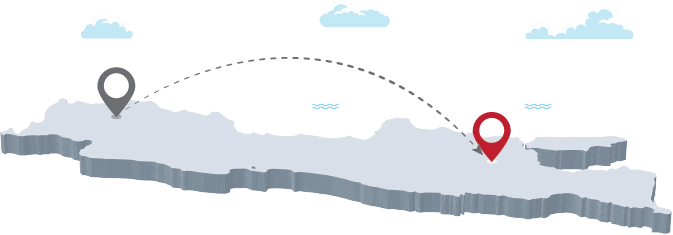
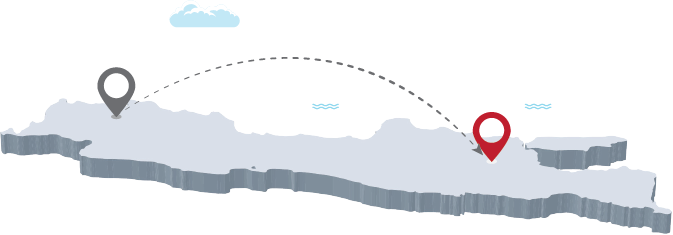
update

diff --git a/sass/style.css b/sass/style.css
@@ -1,1 +1,1 @@
-@import"https://fonts.googleapis.com/css2?family=Poppins:wght@400;600;700&family=Unbounded:wght@600&family=Montserrat:wght@500;700&display=swap";.bg-yellow{background:#fbcc7a}.bg-blue{background:#005296}.bg-green{background:#6ebf52}.bg-birumuda{background:#0695b4}.bgbg{background:#98d4ff}.cerita{position:relative;z-index:8;padding:32px 0;font-family:"Poppins"}.cerita__bg{position:absolute;top:0px;left:0;opacity:.6;right:0;z-index:2;width:100%;height:100%;filter:grayscale(1)}.cerita__bg .testi{width:100%;height:100%}.cerita__bg img{width:100%;height:100%;object-fit:contain}.cerita .imagex{margin-bottom:16px;height:360px}@media screen and (max-width: 766px){.cerita .imagex{height:320px;margin-bottom:4px}}.cerita .imagex img{width:100%;height:100%;object-fit:cover}.cerita .titlex-lala{text-align:center;font-weight:bold;font-family:"Poppins";color:#32debe;font-size:2.5rem;width:fit-content;margin:0 auto 16px;padding:4px 8px}@media screen and (max-width: 766px){.cerita .titlex-lala{font-size:2rem}}.cerita h2{font-weight:600;font-size:2rem;font-family:"Poppins"}.cerita p{font-family:"Poppins";color:#222;letter-spacing:.0225rem}@media screen and (max-width: 766px){.cerita p{font-size:.85rem;line-height:1.3rem;letter-spacing:initial}}.cerita .cardx{display:flex;justify-content:space-around;align-items:center;padding:60px;position:relative}.cerita .cardx .petax{position:absolute;left:0;right:0;top:0;bottom:0;width:100%;height:100%;z-index:1}@media screen and (max-width: 766px){.cerita .cardx .petax{width:100%}}.cerita .cardx .petax::before{content:"";position:absolute;bottom:0;left:0;top:0;right:0;width:100%;height:100%}.cerita .cardx .petax img{width:100%;height:100%;object-fit:contain}@media screen and (max-width: 766px){.cerita .cardx{display:block;padding:16px !important}}.cerita .cardx--reverse{flex-direction:row-reverse}.cerita .cardx--reverse .cardx__img-holder::before{left:8px;bottom:-8px;top:8px;right:-8px}@media screen and (max-width: 766px){.cerita .cardx--reverse .cardx__img-holder::before{left:8px;bottom:-8px;top:8px;right:-8px}}@keyframes warna{0%,100%{background:#e9d2a8}50%{background:#e9d2a8}}.cerita .cardx__img-holder{width:50%;height:75vh;position:relative;z-index:18;margin:8px;padding:16px;border-radius:16px;background:transparent}.cerita .cardx__img-holder .test{position:absolute;left:14%;top:37%}@media screen and (max-width: 766px){.cerita .cardx__img-holder .test{font-size:12px}}@keyframes MoveUpDown{0%,100%{left:14%;top:48%}50%{left:30%;top:36%}70%{left:50%;top:40%}90%{left:66%;top:50%}}@keyframes MoveUpDownMob{0%,100%{left:14%;top:45%}50%{left:30%;top:33%}75%{left:50%;top:37%}90%{left:66%;top:45%}}.cerita .cardx__img-holder .test-pesawat{position:absolute;left:14%;top:48%;width:80px;animation:MoveUpDown 6.5s linear infinite;z-index:35}@media screen and (max-width: 766px){.cerita .cardx__img-holder .test-pesawat{width:40px;top:45%;animation:MoveUpDownMob 6.5s linear infinite}}.cerita .cardx__img-holder .test-pesawat img{width:100%;height:100%;object-fit:contain}.cerita .cardx__img-holder .test2{position:absolute;right:20%;top:44%}@media screen and (max-width: 766px){.cerita .cardx__img-holder .test2{font-size:12px}}.cerita .cardx__img-holder .test3{position:absolute;right:0%;top:40%}@media screen and (max-width: 766px){.cerita .cardx__img-holder .test3{font-size:12px}}.cerita .cardx__img-holder .test4{position:absolute;right:10%;top:30%}@media screen and (max-width: 766px){.cerita .cardx__img-holder .test4{font-size:12px}}.cerita .cardx__img-holder::before{content:"";position:absolute;left:-8px;bottom:-8px;top:8px;right:8px;border-radius:4px;z-index:2}@media screen and (max-width: 766px){.cerita .cardx__img-holder::before{left:-8px;bottom:-8px;top:8px;right:8px}}@media screen and (max-width: 766px){.cerita .cardx__img-holder{width:100%;height:40vh;margin:8px}}.cerita .cardx__img-holder img{width:100%;height:100%;position:relative;z-index:3;border-radius:4px;object-fit:contain}.cerita .cardx__text{width:400px;position:relative;z-index:18}.cerita .cardx__text .tes-judul{color:#222;position:relative;margin-bottom:24px}.cerita .cardx__text .tes-judul::before{content:"";position:absolute;bottom:-12px;left:0;width:80px;height:2px;background:#222}@media screen and (max-width: 766px){.cerita .cardx__text .tes-judul{display:block}}.cerita .cardx__text .tes-judul h2{margin-bottom:0}@media screen and (max-width: 766px){.cerita .cardx__text{width:100%}}.lewat{position:absolute;bottom:32px;right:32px}.lewat.leftx{right:initial;left:32px}.lewat.leftx .image img{width:100%;height:100%;object-fit:contain}@media screen and (max-width: 766px){.lewat{bottom:-72px}}.lewat .image{width:200px;height:auto}.lewat .image img{width:100%;height:100%;object-fit:contain}main,body{font-family:"Poppins",sans-serif;overflow-x:hidden}h2,h3{font-weight:700}section{padding:32px 0;min-height:100vh}.totop{position:relative;z-index:88}.banner{position:relative;background:linear-gradient(to bottom, transparent, #c9a562)}.banner .logo{position:absolute;left:5%;top:15%;z-index:3;width:60vw;height:auto}@media screen and (max-width: 766px){.banner .logo{left:0;top:initial;bottom:10vh;width:100vw}}.banner .logo img{width:100%;height:100%;object-fit:contain}.banner .judul{position:absolute;font-family:"Unbounded";z-index:6;color:#fff;line-height:80px;top:25vh;background:#2b0085;padding:40px;left:8vw;border:4px solid #fff}@media screen and (min-width: 1400px){.banner .judul{left:20vw}}@media screen and (max-width: 766px){.banner .judul{left:0vw;line-height:initial;top:initial;padding:8px}}.banner .judul .atas{font-size:5.1rem}@media screen and (max-width: 766px){.banner .judul .atas{font-size:3.1rem}}.banner .judul .tengah{font-size:3.3rem}@media screen and (max-width: 766px){.banner .judul .tengah{font-size:2rem}}.banner .judul .bawah{color:orange;font-size:5.3rem;border-bottom:4px solid orange;padding-bottom:8px}@media screen and (max-width: 766px){.banner .judul .bawah{font-size:2.3rem}}.banner .image-kereta{position:absolute;top:36vh;left:51vw;z-index:3;width:auto;height:auto}@media screen and (min-width: 1400px){.banner .image-kereta{top:31vh}}.banner .image-kereta img{width:100%;height:100%;object-fit:contain}@media screen and (max-width: 766px){.banner .image-kereta{top:initial;left:0;bottom:5vh;height:auto;width:80%}}.banner .image-peta{position:absolute;top:8vh;left:48vw;z-index:2}@media screen and (max-width: 766px){.banner .image-peta{left:0;top:initial;width:100%;height:auto;bottom:35vh}}.banner .image-peta img{width:100%;height:100%;object-fit:contain}.banner .image-kota{position:absolute;bottom:0;left:0;right:0;opacity:.1}.banner .image-kota img{width:100%;height:100%;object-fit:cover}.intro{position:relative;background:linear-gradient(to bottom, #e9d2a8, white)}@media screen and (max-width: 766px){.intro p{font-size:1rem}}.intro .wrap{position:relative;min-height:100vh}.intro .wrap .sub-judul h4{font-size:2.3rem;font-weight:700}.intro .wrap .object-wisata{width:200px;height:200px;box-shadow:rgba(50,50,93,.25) 0px 6px 12px -2px,rgba(0,0,0,.3) 0px 3px 7px -3px;border-radius:50%}.intro .wrap .object-wisata img{width:100%;height:100%;border-radius:50%;object-fit:cover}.intro .judul-hero{background:#00b15c;width:fit-content;margin:0 auto 24px;border-radius:16px;padding:8px}.intro .judul-hero h3{margin:0;font-family:"Montserrat";border-radius:12px;color:#fff;padding:0;border:1px solid #fff;background:#00c174;padding:16px;font-size:3rem}@media screen and (max-width: 766px){.intro .judul-hero h3{font-size:1.7rem;padding:8px}}.intro .pohons{position:absolute;bottom:0;left:0;right:0;height:70vh;opacity:.1}@media screen and (max-width: 766px){.intro .pohons{height:auto}}.intro .pohons img{width:100%;height:100%;object-fit:contain}.intro .orang{height:auto;position:absolute;right:0;bottom:-32px;width:220px;margin:0 auto}@media screen and (min-width: 1400px){.intro .orang{width:220px}}@media screen and (max-width: 766px){.intro .orang{width:200px;bottom:-32px}}.intro .orang img{width:100%;height:100%;object-fit:contain}.intro .bg{position:absolute;left:0;right:0;top:0;bottom:0;width:100%;height:auto}.intro .bg img{width:100%;height:100%;object-fit:cover}.datanya{background:linear-gradient(to bottom, white, #80ceda);position:relative}@media screen and (max-width: 766px){.datanya{padding:32px 0 300px}}.datanya .tag{background:#fff;color:#e37800;border:1px solid;border-radius:4px;padding:4px;font-size:12px;margin-left:8px;font-family:"Montserrat"}.datanya .titles__cek{font-size:2rem;color:#526771;font-family:"Montserrat";margin:0;padding:0}@media screen and (max-width: 766px){.datanya .titles__cek{font-size:1.7rem}}.datanya .titles__bawah{font-family:"Montserrat";font-size:2.5rem}.datanya .titles h3{font-size:4rem;color:#f69f1a;font-weight:700;text-shadow:2px 2px #333;font-family:"Montserrat"}@media screen and (max-width: 766px){.datanya .titles h3{font-size:2rem;text-shadow:1px 1px #333}}.datanya .nama-pulau{font-size:1.5rem;width:fit-content;font-weight:bold;border-radius:4px}@media screen and (max-width: 766px){.datanya .nama-pulau{font-size:1.3rem}}.datanya .image{width:100%;height:320px}@media screen and (max-width: 766px){.datanya .image{height:180px;margin-bottom:16px}}.datanya .image img{width:100%;height:100%;object-fit:cover}.datanya .wisatawan{position:absolute;right:120px;bottom:8px;width:460px;height:700px;z-index:2}@media screen and (max-width: 766px){.datanya .wisatawan{right:0;bottom:0;width:600px}}.datanya .wisatawan .g1{position:absolute;width:100%;height:100%;left:30%;right:0;bottom:0;top:0}@media screen and (max-width: 766px){.datanya .wisatawan .g1{top:initial;left:initial;opacity:1;height:initial;width:50%}}.datanya .wisatawan .g1 img{width:100%;height:100%;object-fit:contain}.keraton{background:linear-gradient(to top, white, #e9d2a8, white);position:relative}.keraton__img{position:absolute;left:0;right:0;top:0;bottom:0}.keraton__img img{width:100%;height:100%;object-fit:contain}.keraton .obj{position:relative;width:100%;height:420px;padding:8px;z-index:7}.keraton .obj .imgs{width:320px;height:320px;box-shadow:rgba(50,50,93,.25) 0px 6px 12px -2px,rgba(0,0,0,.3) 0px 3px 7px -3px}.keraton .obj .imgs img{width:100%;height:100%;object-fit:cover}.keraton .img{width:100%;height:auto;position:absolute;left:0;right:0;top:0;bottom:0}.keraton .img img{width:100%;height:100%;object-fit:cover}.keraton .titles{position:relative;z-index:9}.keraton .titles__cek{font-size:2rem}.keraton .titles h3{font-size:3.5rem;color:#a27432}@media screen and (max-width: 766px){.keraton .titles h3{font-size:2.5rem}}.totop{position:relative;z-index:88}.bawang{position:relative}.bawang::before{content:"";position:absolute;left:0;right:0;bottom:0;top:0;z-index:2;background:linear-gradient(to bottom, #e9d2a8, transparent, #e9d2a8)}.bawang::after{content:"";position:absolute;left:0;right:0;bottom:0;top:0;z-index:1;background:linear-gradient(to right, #e9d2a8, transparent)}.bawang .img{width:100%;height:100%;position:absolute;left:0;right:0;top:0;bottom:0}.bawang .img img{width:100%;height:100%;object-fit:cover}.pesiar{position:relative;background:linear-gradient(to top, transparent, #80ceda)}.pesiar .titles{padding:8px;text-align:center}.pesiar .titles h3{font-family:"Montserrat";margin:0;padding:0;width:fit-content;margin:0 auto}.pesiar .titles .atas{font-size:2.2rem;color:#4a4a4a;font-weight:700}@media screen and (max-width: 766px){.pesiar .titles .atas{font-size:2rem;font-weight:700}}.pesiar .titles .bawah{font-size:2.6rem;background:#f69f1a;color:#fff;margin-top:8px;padding:8px;text-shadow:2px 2px #333}@media screen and (max-width: 766px){.pesiar .titles .bawah{font-size:2.1rem}}.pesiar .img{width:100%;height:420px;box-shadow:#26394d 0px 20px 30px -10px}@media screen and (max-width: 766px){.pesiar .img{height:280px}}.pesiar .img img{width:100%;height:100%;object-fit:cover}.budaya{position:relative;background:#deb867;padding:84px 0 32px}@media screen and (max-width: 766px){.budaya{padding:64px 0 32px}}.budaya .content-budaya{margin-bottom:16px;position:relative}.budaya .content-budaya .judul{margin:0 auto 24px;width:fit-content;position:relative}.budaya .content-budaya .judul::before{position:absolute;bottom:-8px;content:"";width:50%;left:50%;z-index:4;height:2px;background:#000;transform:translate(-50%, 0%)}.budaya .content-budaya .judul h3{font-size:1.5rem}.budaya .content-budaya .help-blue{position:absolute;top:30px;left:0;right:0;height:300px;background:#946d1b}@media screen and (max-width: 766px){.budaya .content-budaya .help-blue{background:rgba(148,109,27,.6)}}.budaya .imgsa{width:fit-content;margin:0 auto;position:relative;z-index:6;height:420px;box-shadow:rgba(50,50,93,.25) 0px 13px 27px -5px,rgba(0,0,0,.3) 0px 8px 16px -8px}.budaya .imgsa img{width:100%;height:100%;object-fit:contain}@media screen and (max-width: 766px){.budaya .imgsa img{object-fit:cover}}.budaya .batik-land{position:absolute;top:0;left:0;right:0;z-index:3;height:50px}@media screen and (max-width: 766px){.budaya .batik-land{height:20px}}.budaya .batik-land img{width:100%;height:100%;object-fit:cover}.budaya .batik-land-bottom{position:absolute;bottom:0;left:0;right:0;z-index:3;height:50px}@media screen and (max-width: 766px){.budaya .batik-land-bottom{height:20px}}.budaya .batik-land-bottom img{width:100%;height:100%;object-fit:cover}.budaya .belok{position:absolute;left:0;top:0;right:0}@media screen and (max-width: 766px){.budaya .belok{height:240px}}.budaya .belok img{width:100%;height:100%;object-fit:cover}.budaya .title{color:#fff;font-size:3.5rem;text-align:center;font-family:"Montserrat"}@media screen and (max-width: 766px){.budaya .title{font-size:2.5rem;margin-bottom:24px}}.geografis{position:relative}.geografis .tourist{position:absolute;left:0;bottom:0;width:520px;height:auto}@media screen and (max-width: 766px){.geografis .tourist{width:100%}}.geografis .tourist img{width:100%;height:100%;object-fit:contain}.geografis .rel{position:absolute;bottom:16px;right:0;z-index:6;height:2px;width:700px;background:#534741}@media screen and (max-width: 766px){.geografis .rel{width:85%}}.geografis .kereta{position:absolute;right:-10%;bottom:16px;z-index:2;width:720px}@media screen and (max-width: 766px){.geografis .kereta{width:85%}}.geografis .kereta img{width:100%;height:100%;object-fit:contain}.geografis .judul-hero{background:#00b15c;width:fit-content;margin:0 auto 24px;border-radius:16px;padding:8px}@media screen and (max-width: 766px){.geografis .judul-hero{margin:16px auto}}.geografis .judul-hero .name{margin:0;font-family:"Montserrat";border-radius:12px;color:#fff;padding:0;border:1px solid #fff;background:#00c174;padding:16px;font-size:3rem}@media screen and (max-width: 766px){.geografis .judul-hero .name{font-size:1.7rem;padding:8px}}.geografis::before{position:absolute;left:0;right:0;content:"";z-index:2;top:0;bottom:0;background:linear-gradient(to top, #e9d2a8, transparent, #e9d2a8)}.geografis .img{width:100%;height:320px}.geografis .img img{width:100%;height:100%;object-fit:cover}@media screen and (max-width: 766px){.geografis .img img{object-fit:contain}}.all-photo{display:block}.all-photo .img{width:30%;margin:8px;height:360px;display:inline-block}@media screen and (max-width: 766px){.all-photo .img{width:100%;margin:0 auto 8px}}.all-photo .img img{width:100%;height:100%;object-fit:cover}.galeri{background:#84b28e;position:relative}.galeri .camera{position:absolute;top:0;left:20%;width:150px;height:auto}@media screen and (max-width: 766px){.galeri .camera{position:absolute;top:0;left:initial;right:0;width:76px;height:auto}}.galeri .camera img{width:100%;height:100%;object-fit:contain}.galeri .title{font-family:"Montserrat";font-size:3.5rem;color:#fff;text-shadow:2px 2px #000}.galeri .slick-slide{margin:0 16px}.galeri .slick-list{margin:0 -16px}.galeri .slick-next,.galeri .slick-prev{z-index:9}@media screen and (max-width: 766px){.galeri .slick-next{right:0}}.galeri .slick-next::before{font-family:"FontAwesome" !important;content:"" !important;font-size:1.5rem}@media screen and (max-width: 766px){.galeri .slick-prev{left:0}}.galeri .slick-prev::before{font-family:"FontAwesome" !important;content:"" !important;font-size:1.5rem}/*# sourceMappingURL=style.css.map */
+@import"https://fonts.googleapis.com/css2?family=Poppins:wght@400;600;700&family=Unbounded:wght@600&family=Montserrat:wght@500;700&display=swap";.bg-yellow{background:#fbcc7a}.bg-blue{background:#005296}.bg-green{background:#6ebf52}.bg-birumuda{background:#0695b4}.bgbg{background:#98d4ff}.cerita{position:relative;z-index:8;padding:32px 0;font-family:"Poppins"}.cerita__bg{position:absolute;top:0px;left:0;opacity:.6;right:0;z-index:2;width:100%;height:100%;filter:grayscale(1)}.cerita__bg .testi{width:100%;height:100%}.cerita__bg img{width:100%;height:100%;object-fit:contain}.cerita .imagex{margin-bottom:16px;height:360px}@media screen and (max-width: 766px){.cerita .imagex{height:320px;margin-bottom:4px}}.cerita .imagex img{width:100%;height:100%;object-fit:cover}.cerita .titlex-lala{text-align:center;font-weight:bold;font-family:"Poppins";color:#32debe;font-size:2.5rem;width:fit-content;margin:0 auto 16px;padding:4px 8px}@media screen and (max-width: 766px){.cerita .titlex-lala{font-size:2rem}}.cerita h2{font-weight:600;font-size:2rem;font-family:"Poppins"}.cerita p{font-family:"Poppins";color:#222;letter-spacing:.0225rem}@media screen and (max-width: 766px){.cerita p{font-size:.85rem;line-height:1.3rem;letter-spacing:initial}}.cerita .cardx{display:flex;justify-content:space-around;align-items:center;padding:60px;position:relative}.cerita .cardx .petax{position:absolute;left:0;right:0;top:0;bottom:0;width:100%;height:100%;z-index:1}@media screen and (max-width: 766px){.cerita .cardx .petax{width:100%}}.cerita .cardx .petax::before{content:"";position:absolute;bottom:0;left:0;top:0;right:0;width:100%;height:100%}.cerita .cardx .petax img{width:100%;height:100%;object-fit:contain}@media screen and (max-width: 766px){.cerita .cardx{display:block;padding:16px !important}}.cerita .cardx--reverse{flex-direction:row-reverse}.cerita .cardx--reverse .cardx__img-holder::before{left:8px;bottom:-8px;top:8px;right:-8px}@media screen and (max-width: 766px){.cerita .cardx--reverse .cardx__img-holder::before{left:8px;bottom:-8px;top:8px;right:-8px}}@keyframes warna{0%,100%{background:#e9d2a8}50%{background:#e9d2a8}}.cerita .cardx__img-holder{width:50%;height:75vh;position:relative;z-index:18;margin:8px;padding:16px;border-radius:16px;background:transparent}.cerita .cardx__img-holder .test{position:absolute;left:14%;top:37%}@media screen and (max-width: 766px){.cerita .cardx__img-holder .test{font-size:12px}}@keyframes MoveUpDown{0%,100%{left:14%;top:48%}50%{left:30%;top:36%}70%{left:50%;top:40%}90%{left:66%;top:50%}}@keyframes MoveUpDownMob{0%,100%{left:14%;top:45%}50%{left:30%;top:33%}75%{left:50%;top:37%}90%{left:66%;top:45%}}@keyframes MoveUpAwan{0%,100%{left:40%}50%{left:45%}}@keyframes MoveUpAwan2{0%,100%{right:20%}50%{right:25%}}.cerita .cardx__img-holder .test-awan{position:absolute;top:20%;left:40%;width:100px;animation:MoveUpAwan 8.5s linear infinite}.cerita .cardx__img-holder .test-awan img{width:100%;height:100%;object-fit:contain}.cerita .cardx__img-holder .test-awan2{position:absolute;top:32%;right:20%;width:60px;transform:translateX(100deg);animation:MoveUpAwan2 6.5s linear infinite}.cerita .cardx__img-holder .test-awan2 img{width:100%;height:100%;object-fit:contain}.cerita .cardx__img-holder .test-pesawat{position:absolute;left:14%;top:48%;width:80px;animation:MoveUpDown 6.5s linear infinite;z-index:35}@media screen and (max-width: 766px){.cerita .cardx__img-holder .test-pesawat{width:40px;top:45%;animation:MoveUpDownMob 6.5s linear infinite}}.cerita .cardx__img-holder .test-pesawat img{width:100%;height:100%;object-fit:contain}.cerita .cardx__img-holder .test2{position:absolute;right:20%;top:44%}@media screen and (max-width: 766px){.cerita .cardx__img-holder .test2{font-size:12px}}.cerita .cardx__img-holder .test3{position:absolute;right:0%;top:49%}@media screen and (max-width: 766px){.cerita .cardx__img-holder .test3{font-size:12px}}.cerita .cardx__img-holder .test4{position:absolute;right:10%;top:30%}@media screen and (max-width: 766px){.cerita .cardx__img-holder .test4{font-size:12px}}.cerita .cardx__img-holder::before{content:"";position:absolute;left:-8px;bottom:-8px;top:8px;right:8px;border-radius:4px;z-index:2}@media screen and (max-width: 766px){.cerita .cardx__img-holder::before{left:-8px;bottom:-8px;top:8px;right:8px}}@media screen and (max-width: 766px){.cerita .cardx__img-holder{width:100%;height:40vh;margin:8px}}.cerita .cardx__img-holder img{width:100%;height:100%;position:relative;z-index:3;border-radius:4px;object-fit:contain}.cerita .cardx__text{width:400px;position:relative;z-index:18}.cerita .cardx__text .tes-judul{color:#222;position:relative;margin-bottom:24px}.cerita .cardx__text .tes-judul::before{content:"";position:absolute;bottom:-12px;left:0;width:80px;height:2px;background:#222}@media screen and (max-width: 766px){.cerita .cardx__text .tes-judul{display:block}}.cerita .cardx__text .tes-judul h2{margin-bottom:0}@media screen and (max-width: 766px){.cerita .cardx__text{width:100%}}.lewat{position:absolute;bottom:32px;right:32px}.lewat.leftx{right:initial;left:32px}.lewat.leftx .image img{width:100%;height:100%;object-fit:contain}@media screen and (max-width: 766px){.lewat{bottom:-72px}}.lewat .image{width:200px;height:auto}.lewat .image img{width:100%;height:100%;object-fit:contain}main,body{font-family:"Poppins",sans-serif;overflow-x:hidden}h2,h3{font-weight:700}section{padding:32px 0;min-height:100vh}.totop{position:relative;z-index:88}.banner{position:relative;background:linear-gradient(to bottom, transparent, #c9a562)}.banner .logo{position:absolute;left:5%;top:15%;z-index:3;width:60vw;height:auto}@media screen and (max-width: 766px){.banner .logo{left:0;top:initial;bottom:10vh;width:100vw}}.banner .logo img{width:100%;height:100%;object-fit:contain}.banner .judul{position:absolute;font-family:"Unbounded";z-index:6;color:#fff;line-height:80px;top:25vh;background:#2b0085;padding:40px;left:8vw;border:4px solid #fff}@media screen and (min-width: 1400px){.banner .judul{left:20vw}}@media screen and (max-width: 766px){.banner .judul{left:0vw;line-height:initial;top:initial;padding:8px}}.banner .judul .atas{font-size:5.1rem}@media screen and (max-width: 766px){.banner .judul .atas{font-size:3.1rem}}.banner .judul .tengah{font-size:3.3rem}@media screen and (max-width: 766px){.banner .judul .tengah{font-size:2rem}}.banner .judul .bawah{color:orange;font-size:5.3rem;border-bottom:4px solid orange;padding-bottom:8px}@media screen and (max-width: 766px){.banner .judul .bawah{font-size:2.3rem}}.banner .image-kereta{position:absolute;top:36vh;left:51vw;z-index:3;width:auto;height:auto}@media screen and (min-width: 1400px){.banner .image-kereta{top:31vh}}.banner .image-kereta img{width:100%;height:100%;object-fit:contain}@media screen and (max-width: 766px){.banner .image-kereta{top:initial;left:0;bottom:5vh;height:auto;width:80%}}.banner .image-peta{position:absolute;top:8vh;left:48vw;z-index:2}@media screen and (max-width: 766px){.banner .image-peta{left:0;top:initial;width:100%;height:auto;bottom:35vh}}.banner .image-peta img{width:100%;height:100%;object-fit:contain}.banner .image-kota{position:absolute;bottom:0;left:0;right:0;opacity:.1}.banner .image-kota img{width:100%;height:100%;object-fit:cover}.intro{position:relative;background:linear-gradient(to bottom, #e9d2a8, white)}@media screen and (max-width: 766px){.intro p{font-size:1rem}}.intro .wrap{position:relative;min-height:100vh}.intro .wrap .sub-judul h4{font-size:2.3rem;font-weight:700}.intro .wrap .object-wisata{width:200px;height:200px;box-shadow:rgba(50,50,93,.25) 0px 6px 12px -2px,rgba(0,0,0,.3) 0px 3px 7px -3px;border-radius:50%}.intro .wrap .object-wisata img{width:100%;height:100%;border-radius:50%;object-fit:cover}.intro .judul-hero{background:#00b15c;width:fit-content;margin:0 auto 24px;border-radius:16px;padding:8px}.intro .judul-hero h3{margin:0;font-family:"Montserrat";border-radius:12px;color:#fff;padding:0;border:1px solid #fff;background:#00c174;padding:16px;font-size:3rem}@media screen and (max-width: 766px){.intro .judul-hero h3{font-size:1.7rem;padding:8px}}.intro .pohons{position:absolute;bottom:0;left:0;right:0;height:70vh;opacity:.1}@media screen and (max-width: 766px){.intro .pohons{height:auto}}.intro .pohons img{width:100%;height:100%;object-fit:contain}.intro .orang{height:auto;position:absolute;right:0;bottom:-32px;width:220px;margin:0 auto}@media screen and (min-width: 1400px){.intro .orang{width:220px}}@media screen and (max-width: 766px){.intro .orang{width:200px;bottom:-32px}}.intro .orang img{width:100%;height:100%;object-fit:contain}.intro .bg{position:absolute;left:0;right:0;top:0;bottom:0;width:100%;height:auto}.intro .bg img{width:100%;height:100%;object-fit:cover}.datanya{background:linear-gradient(to bottom, white, #80ceda);position:relative}@media screen and (max-width: 766px){.datanya{padding:32px 0 300px}}.datanya .tag{background:#fff;color:#e37800;border:1px solid;border-radius:4px;padding:4px;font-size:12px;margin-left:8px;font-family:"Montserrat"}.datanya .titles__cek{font-size:2rem;color:#526771;font-family:"Montserrat";margin:0;padding:0}@media screen and (max-width: 766px){.datanya .titles__cek{font-size:1.7rem}}.datanya .titles__bawah{font-family:"Montserrat";font-size:2.5rem}.datanya .titles h3{font-size:4rem;color:#f69f1a;font-weight:700;text-shadow:2px 2px #333;font-family:"Montserrat"}@media screen and (max-width: 766px){.datanya .titles h3{font-size:2rem;text-shadow:1px 1px #333}}.datanya .nama-pulau{font-size:1.5rem;width:fit-content;font-weight:bold;border-radius:4px}@media screen and (max-width: 766px){.datanya .nama-pulau{font-size:1.3rem}}.datanya .image{width:100%;height:320px}@media screen and (max-width: 766px){.datanya .image{height:180px;margin-bottom:16px}}.datanya .image img{width:100%;height:100%;object-fit:cover}.datanya .wisatawan{position:absolute;right:120px;bottom:8px;width:460px;height:700px;z-index:2}@media screen and (max-width: 766px){.datanya .wisatawan{right:0;bottom:0;width:600px}}.datanya .wisatawan .g1{position:absolute;width:100%;height:100%;left:30%;right:0;bottom:0;top:0}@media screen and (max-width: 766px){.datanya .wisatawan .g1{top:initial;left:initial;opacity:1;height:initial;width:50%}}.datanya .wisatawan .g1 img{width:100%;height:100%;object-fit:contain}.keraton{background:linear-gradient(to top, white, #e9d2a8, white);position:relative}.keraton__img{position:absolute;left:0;right:0;top:0;bottom:0}.keraton__img img{width:100%;height:100%;object-fit:contain}.keraton .obj{position:relative;width:100%;height:420px;padding:8px;z-index:7}.keraton .obj .imgs{width:320px;height:320px;box-shadow:rgba(50,50,93,.25) 0px 6px 12px -2px,rgba(0,0,0,.3) 0px 3px 7px -3px}.keraton .obj .imgs img{width:100%;height:100%;object-fit:cover}.keraton .img{width:100%;height:auto;position:absolute;left:0;right:0;top:0;bottom:0}.keraton .img img{width:100%;height:100%;object-fit:cover}.keraton .titles{position:relative;z-index:9}.keraton .titles__cek{font-size:2rem}.keraton .titles h3{font-size:3.5rem;color:#a27432}@media screen and (max-width: 766px){.keraton .titles h3{font-size:2.5rem}}.totop{position:relative;z-index:88}.bawang{position:relative}.bawang::before{content:"";position:absolute;left:0;right:0;bottom:0;top:0;z-index:2;background:linear-gradient(to bottom, #e9d2a8, transparent, #e9d2a8)}.bawang::after{content:"";position:absolute;left:0;right:0;bottom:0;top:0;z-index:1;background:linear-gradient(to right, #e9d2a8, transparent)}.bawang .img{width:100%;height:100%;position:absolute;left:0;right:0;top:0;bottom:0}.bawang .img img{width:100%;height:100%;object-fit:cover}.pesiar{position:relative;background:linear-gradient(to top, transparent, #80ceda)}.pesiar .titles{padding:8px;text-align:center}.pesiar .titles h3{font-family:"Montserrat";margin:0;padding:0;width:fit-content;margin:0 auto}.pesiar .titles .atas{font-size:2.2rem;color:#4a4a4a;font-weight:700}@media screen and (max-width: 766px){.pesiar .titles .atas{font-size:2rem;font-weight:700}}.pesiar .titles .bawah{font-size:2.6rem;background:#f69f1a;color:#fff;margin-top:8px;padding:8px;text-shadow:2px 2px #333}@media screen and (max-width: 766px){.pesiar .titles .bawah{font-size:2.1rem}}.pesiar .img{width:100%;height:420px;box-shadow:#26394d 0px 20px 30px -10px}@media screen and (max-width: 766px){.pesiar .img{height:280px}}.pesiar .img img{width:100%;height:100%;object-fit:cover}.budaya{position:relative;background:#deb867;padding:84px 0 32px}@media screen and (max-width: 766px){.budaya{padding:64px 0 32px}}.budaya .content-budaya{margin-bottom:16px;position:relative}.budaya .content-budaya .judul{margin:0 auto 24px;width:fit-content;position:relative}.budaya .content-budaya .judul::before{position:absolute;bottom:-8px;content:"";width:50%;left:50%;z-index:4;height:2px;background:#000;transform:translate(-50%, 0%)}.budaya .content-budaya .judul h3{font-size:1.5rem}.budaya .content-budaya .help-blue{position:absolute;top:30px;left:0;right:0;height:300px;background:#946d1b}@media screen and (max-width: 766px){.budaya .content-budaya .help-blue{background:rgba(148,109,27,.6)}}.budaya .imgsa{width:fit-content;margin:0 auto;position:relative;z-index:6;height:420px;box-shadow:rgba(50,50,93,.25) 0px 13px 27px -5px,rgba(0,0,0,.3) 0px 8px 16px -8px}.budaya .imgsa img{width:100%;height:100%;object-fit:contain}@media screen and (max-width: 766px){.budaya .imgsa img{object-fit:cover}}.budaya .batik-land{position:absolute;top:0;left:0;right:0;z-index:3;height:50px}@media screen and (max-width: 766px){.budaya .batik-land{height:20px}}.budaya .batik-land img{width:100%;height:100%;object-fit:cover}.budaya .batik-land-bottom{position:absolute;bottom:0;left:0;right:0;z-index:3;height:50px}@media screen and (max-width: 766px){.budaya .batik-land-bottom{height:20px}}.budaya .batik-land-bottom img{width:100%;height:100%;object-fit:cover}.budaya .belok{position:absolute;left:0;top:0;right:0}@media screen and (max-width: 766px){.budaya .belok{height:240px}}.budaya .belok img{width:100%;height:100%;object-fit:cover}.budaya .title{color:#fff;font-size:3.5rem;text-align:center;font-family:"Montserrat"}@media screen and (max-width: 766px){.budaya .title{font-size:2.5rem;margin-bottom:24px}}.geografis{position:relative}.geografis .tourist{position:absolute;left:0;bottom:0;width:520px;height:auto}@media screen and (max-width: 766px){.geografis .tourist{width:100%}}.geografis .tourist img{width:100%;height:100%;object-fit:contain}.geografis .rel{position:absolute;bottom:16px;right:0;z-index:6;height:2px;width:700px;background:#534741}@media screen and (max-width: 766px){.geografis .rel{width:85%}}.geografis .kereta{position:absolute;right:-10%;bottom:16px;z-index:2;width:720px}@media screen and (max-width: 766px){.geografis .kereta{width:85%}}.geografis .kereta img{width:100%;height:100%;object-fit:contain}.geografis .judul-hero{background:#00b15c;width:fit-content;margin:0 auto 24px;border-radius:16px;padding:8px}@media screen and (max-width: 766px){.geografis .judul-hero{margin:16px auto}}.geografis .judul-hero .name{margin:0;font-family:"Montserrat";border-radius:12px;color:#fff;padding:0;border:1px solid #fff;background:#00c174;padding:16px;font-size:3rem}@media screen and (max-width: 766px){.geografis .judul-hero .name{font-size:1.7rem;padding:8px}}.geografis::before{position:absolute;left:0;right:0;content:"";z-index:2;top:0;bottom:0;background:linear-gradient(to top, #e9d2a8, transparent, #e9d2a8)}.geografis .img{width:100%;height:320px}.geografis .img img{width:100%;height:100%;object-fit:cover}@media screen and (max-width: 766px){.geografis .img img{object-fit:contain}}.all-photo{display:block}.all-photo .img{width:30%;margin:8px;height:360px;display:inline-block}@media screen and (max-width: 766px){.all-photo .img{width:100%;margin:0 auto 8px}}.all-photo .img img{width:100%;height:100%;object-fit:cover}.galeri{background:#84b28e;position:relative}.galeri .camera{position:absolute;top:0;left:20%;width:150px;height:auto}@media screen and (max-width: 766px){.galeri .camera{position:absolute;top:0;left:initial;right:0;width:76px;height:auto}}.galeri .camera img{width:100%;height:100%;object-fit:contain}.galeri .title{font-family:"Montserrat";font-size:3.5rem;color:#fff;text-shadow:2px 2px #000}.galeri .slick-slide{margin:0 16px}.galeri .slick-list{margin:0 -16px}.galeri .slick-next,.galeri .slick-prev{z-index:9}@media screen and (max-width: 766px){.galeri .slick-next{right:0}}.galeri .slick-next::before{font-family:"FontAwesome" !important;content:"" !important;font-size:1.5rem}@media screen and (max-width: 766px){.galeri .slick-prev{left:0}}.galeri .slick-prev::before{font-family:"FontAwesome" !important;content:"" !important;font-size:1.5rem}/*# sourceMappingURL=style.css.map */

diff --git a/sass/gsap.scss b/sass/gsap.scss
@@ -270,6 +270,59 @@
             // }
         }
 
+        @keyframes MoveUpAwan {
+
+            0%,
+            100% {
+                left: 40%;
+            }
+
+            50% {
+                left: 45%;
+            }
+        }
+
+        @keyframes MoveUpAwan2 {
+
+            0%,
+            100% {
+                right: 20%;
+            }
+
+            50% {
+                right: 25%;
+            }
+        }
+
+        .test-awan {
+            position: absolute;
+            top: 20%;
+            left: 40%;
+            width: 100px;
+            animation: MoveUpAwan 8.5s linear infinite;
+
+            img {
+                width: 100%;
+                height: 100%;
+                object-fit: contain;
+            }
+        }
+
+        .test-awan2 {
+            position: absolute;
+            top: 32%;
+            right: 20%;
+            width: 60px;
+            transform: translateX(100deg);
+            animation: MoveUpAwan2 6.5s linear infinite;
+
+            img {
+                width: 100%;
+                height: 100%;
+                object-fit: contain;
+            }
+        }
+
         .test-pesawat {
             // position: absolute;
             // left: 25%;
@@ -310,7 +363,7 @@
         .test3 {
             position: absolute;
             right: 0%;
-            top: 40%;
+            top: 49%;
 
             @media screen and (max-width:766px) {
                 font-size: 12px;

diff --git a/index.html b/index.html
@@ -49,6 +49,13 @@
                             <div class="test-pesawat">
                                 <img src="img/pesawat.png" alt="">
                             </div>
+                            <div class="test-awan">
+                                <img src="img/awan.png" alt="">
+                            </div>
+
+                            <div class="test-awan2">
+                                    <img src="img/awan2.png" alt="">
+                                </div>
                             <picture>
                                 <source media="(max-width:766px)" srcset="img/jawa.png">
                                 <img src="img/jawa.png" alt="Flowers">
